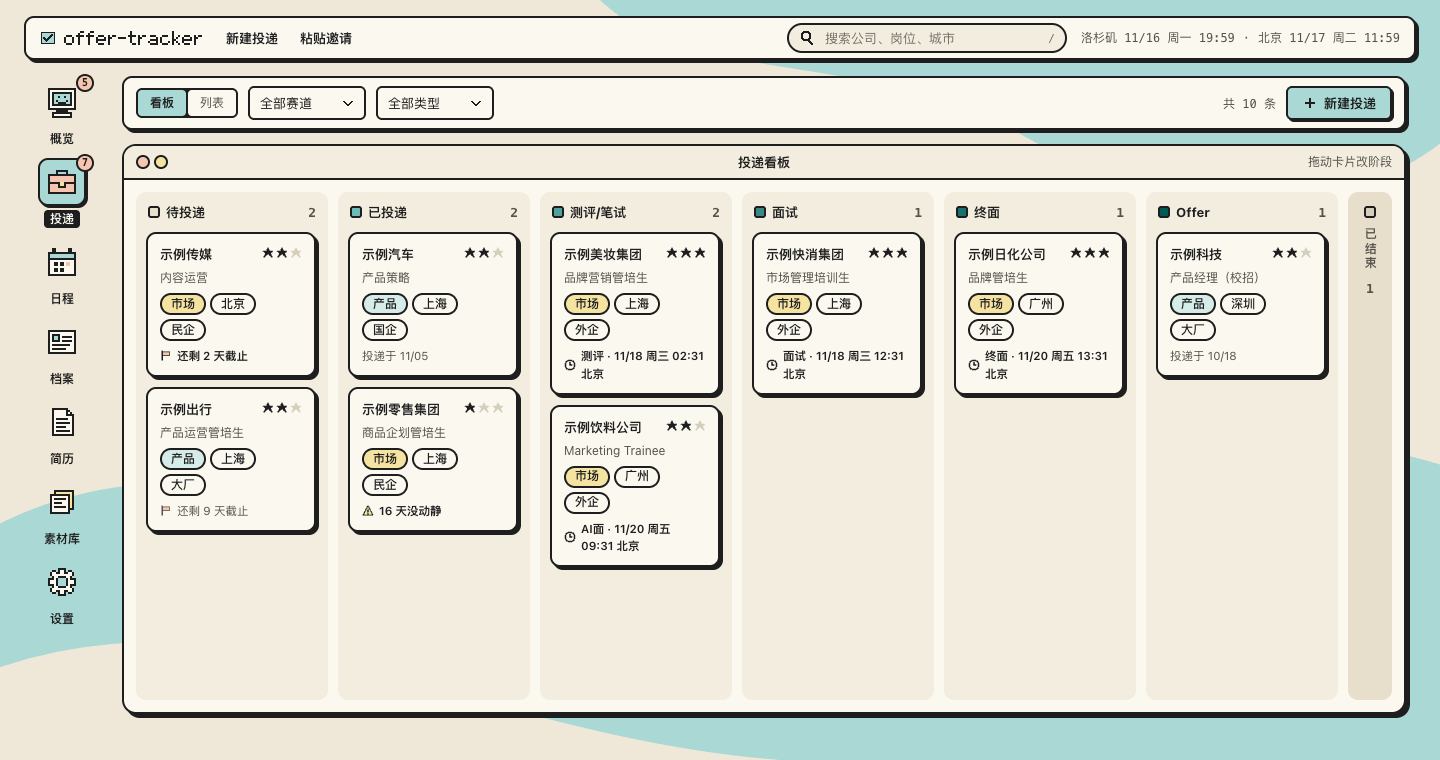
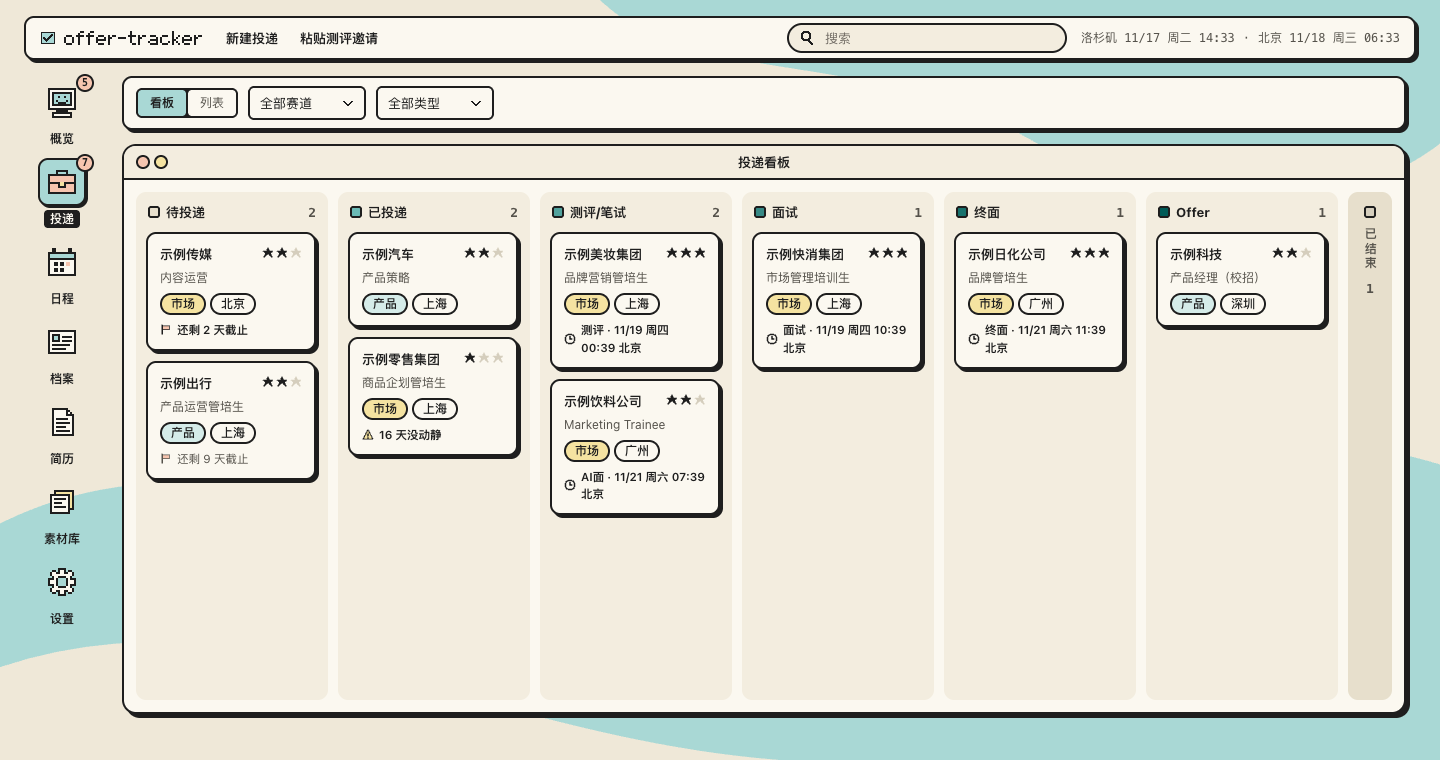
docs: AGENTS.md as the single rule file, UI copy principles, new screenshots
Project rules now live only in AGENTS.md (CLAUDE.md imports it). The UI
section adds two rules: avoid unnecessary secondary labels and let the
layout do the explaining; a first-time visitor must be able to tell where
to click next and what happens. Screenshots regenerated from demo data.

diff --git a/AGENTS.md b/AGENTS.md
@@ -1,0 +1,104 @@
+# 秋招 Tracker（给编码助手）
+
+本地秋招投递管理工具：Node 零依赖服务 + 原生 JS 网页。设计见 `docs/superpowers/specs/2026-09-20-job-tracker-design.md`，字段定义以 spec §3 为准。
+
+## 运行与测试
+
+- 服务：`http://127.0.0.1:7317`（双击 `启动Tracker.command` 或 `npm start`）；`curl -s 127.0.0.1:7317/api/ping` 判断是否在运行
+- **改了 `server/` 或 `shared/` 的代码必须重启服务**（`./停止Tracker.command && ./启动Tracker.command`），否则跑的还是旧代码：接口 404、ICS 少闹钟这类「明明改了却没生效」都是这个原因。网页和插件的代码不用重启，刷新页面即可
+- 测试：`npm test`
+
+## 数据（`data/`，含个人信息，已被 git 忽略）
+
+| 文件 | 内容 |
+|---|---|
+| `profile.json` | 个人档案；中英字段是 `{ "zh", "en" }` |
+| `applications.json` | 投递数组（含 events 日程、timeline 时间线） |
+| `answers.json` | 素材库 |
+| `resumes.json` + `resumes/` | 简历版本和原件 |
+| `settings.json` | 设置，缺省值见 `shared/constants.js` 的 `DEFAULT_SETTINGS` |
+| `jd/<appId>.md` | JD 快照 |
+| `backups/` | 自动备份 |
+| `ai/<appId>.json` | AI 诊断、面试题和对话的缓存 |
+
+## 修改数据
+
+**服务在运行时一律走 API**（会自动写时间线、补投递日期、做校验、做备份）：
+
+```bash
+API=http://127.0.0.1:7317/api
+# 新建投递
+curl -s -X POST $API/applications -H 'Content-Type: application/json' \
+  -d '{"company":"示例公司","position":"Marketing MT","track":"市场","companyType":"外企","stage":"applied"}'
+# 改阶段 / 状态
+curl -s -X PATCH $API/applications/<id> -H 'Content-Type: application/json' -d '{"stage":"interview"}'
+# 保存 JD 快照
+curl -s -X PUT $API/applications/<id>/jd -H 'Content-Type: application/json' -d '{"text":"..."}'
+```
+
+加日程：先 `GET $API/applications/<id>`，在 `events` 里追加一项后整体 `PATCH {"events":[...]}`。日程格式：
+
+```json
+{ "id": "evt_xxxxxxxxxx", "type": "面试", "title": "二面", "at": "2026-09-25T14:00:00+08:00",
+  "tz": "Asia/Shanghai", "durationMin": 60, "location": "", "done": false, "review": null }
+```
+
+测评 / 笔试 / AI 面这类「在某个时间之前自己找时间做完」的，再加三个字段（见 `shared/invite.js` 和 M3 设计文档）：
+
+```json
+{ "mode": "deadline", "windowStart": "<收到邀请的时刻 UTC ISO>", "basis": "请在收到本邮件后的5天内完成面试" }
+```
+
+`mode` 缺省按类型推断（`测评`/`笔试`/`AI面` 是 `deadline`，其余是 `meeting`）。截止型事件在概览里一直显示倒计时直到 `done`，日历会响两次闹钟。用户发来测评邀请邮件时，用 `parseInvite()` 算截止时间，别自己心算。
+
+**服务没运行时**可以直接改 JSON，但必须自己做到服务会做的事：
+
+- 新 id：`<前缀>_<10 位 [0-9a-z]>`，前缀 `app` / `evt` / `tl` / `ans` / `res` / `edu` / `work` …（`shared/domain.js` 的 `newId`）
+- 改 `stage` 或 `status` 时，在 `timeline` 追加 `{ "id", "at": <UTC ISO>, "type": "stage" | "status", "from", "to", "text": "" }`
+- 从 `wishlist` 进入之后的阶段、且 `appliedAt` 为空时，填当天日期（按 `settings.homeTz`）
+- 更新 `updatedAt`；保持文件是合法 JSON（写坏了服务会拒绝写入，可从 `backups/` 恢复）
+
+取值：`stage` ∈ wishlist / applied / assessment / interview / final / offer；`status` ∈ active / rejected / withdrawn / accepted / declined；`priority` ∈ 1 / 2 / 3；日程类型见 `EVENT_TYPES`。
+
+## 规则
+
+- 时间：用户说的面试时间没带时区时，按 `settings.eventInputTz` 理解，并在回复里把两个时区都说出来
+- 绝不存身份证号、护照号、密码；`account` 只放注册用的邮箱或手机号
+- 代码、提交信息、`docs/` 里不写任何个人信息（以后可能公开部署）
+- 项目规则只写在 `AGENTS.md` 这一份；`CLAUDE.md` 只是用 `@AGENTS.md` 引用它，别在那里另写规则
+- README 有中英两份：`README.md`（中文，GitHub 默认显示）和 `README.en.md`（英文），顶部互相链接；改一份要同步改另一份
+- 保持零依赖、无构建；数据读写只放在 `server/store.js`；业务规则放 `shared/`，网页和服务端共用
+
+## 界面风格（web/ 和插件侧边栏）
+
+- **少写字，让布局来解释**（Avoid unnecessary secondary labels and descriptions. Let the layout do the explaining.）
+  - 不加副标题、说明段落、标题栏里的提示小字、数字下面的注释行；位置、分组、标题栏、图标、色块、留白能说明的，就不再用文字说一遍
+  - 计数写进窗口标题（「需要处理 · 5」），不另起一行「共 N 条」；同一个操作只出现一次（菜单栏已有「新建投递」「粘贴测评邀请」，页面里不再放）——空状态例外，见下一条
+  - 空状态放下一步的按钮（空看板里的「记第一条投递」、空日程里的「粘贴测评邀请」），不写引导段落；没有数据的卡片直接不显示
+  - 自动识别 / 自动填好的结果用底色表示，不写「识别到了：…」；颜色图例用色块，不写「绿框是…」
+  - 生成时间、文件大小这类次要信息放进悬停提示（`title`），不常驻在页面上
+  - 只留：字段名、按钮、窗口标题、数据本身、出错信息，以及页面上看不出来、做错了就会出问题的提示（比如订阅日历时要取消勾选「移除：提醒」）
+- **第一次进来的人要答得出「下一步点哪里，点了会发生什么」**：每个页面（尤其是还没有数据时）只靠布局和按钮回答这两个问题。答不出来就先改布局和按钮文案，不加说明文字补救
+  - 布局：下一步放在视线落点（空状态里的唯一按钮、编号排出先后、下一步用主按钮高亮、做完的打勾）；能点开的行在行尾放 ›，能拖的卡片用抓手光标
+  - 按钮文案：动词 + 对象，读出来就是点了以后的结果，比如「记第一条投递」「按 JD 生成改写建议」「订阅到日历」「记一次跟进」；不用「我跟进了」这类陈述句，也不用「开始诊断」「识别」这类说不清结果的词
+  - 能省掉的步骤就省掉：粘进邮件就自动识别，不另放「识别」按钮；新建之后马上出现，光标直接停在要填的地方
+- 复古桌面风：奶油色纸面、2px 黑描边、不带模糊的硬阴影、像素图标。颜色和尺寸只在 `web/css/base.css` 的 `:root` 里定义，别处一律用变量；只有浅色一套，没有深色模式
+- 每块内容是一个「窗口」：`.card` > `.card-head`（标题栏：左边两个圆点，标题居中，右侧可放一个小按钮或链接）+ `.card-body`；JS 里可用 `ui.js` 的 `windowCard()`。投递详情是浮在右侧的窗口（`openDrawer`），弹窗是激活状态的窗口（青色标题栏）
+- 阶段色 `--st-*` 是同一个青绿由浅到深（阶段有先后），文字始终是黑的，色块旁边一定有文字；提醒 / 警告 / 出错用底色 + 图标 + 文字（`.flag`、`.toast.error`），不能只靠颜色
+- 图标是 `web/js/pixel.js` 里 16×16 的位图，用 `icon('名字')` 取；加图标就在 `ICONS` 里加一份位图，`tests/pixel.test.js` 会检查格式，也会检查网页里用到的图标都画了。大数字用 `pixelText()` 画成像素字
+- 插件侧边栏在 shadow root 里，样式是 `extension/content/panel.js` 里的 `STYLE`，颜色和网页保持一致
+
+## AI（settings.ai + server/ai.js）
+
+- 模型服务由用户自己配：`settings.ai = {format: 'openai'|'anthropic', baseUrl, model, apiKey, forbidden[], enabled}`
+- **apiKey 只在服务端读**。`/api/settings`、`/api/state` 一律经 `publicSettings()` 抹掉，只返回 `hasKey`；PATCH 时空串表示不改、`null` 表示清空。改这块务必保留 `tests/server.test.js` 里那条「绝不出服务端」的测试
+- 发给模型的内容走 `shared/aiprompt.js` 的 `resumeForAI()` 白名单：联系方式、证件、生日一律不发
+- 接口：`POST /api/ai/{test,diagnose,interview,chat}`，`GET /api/ai/<appId>` 只读缓存不花钱
+- 防编造：系统提示 + 用户的 `forbidden` 清单 + `rewriteWarnings()` 的机器检查 + 丢弃对不上档案 id 的建议
+
+## Chrome 插件（extension/）
+
+- 结构：`content/lib/`（fields 字段字典、match 标签匹配、fill 写值、clip 收藏识别）→ `content/agent.js`（每个 frame 的执行者）→ `content/panel.js`（侧边栏）；`bg/handlers.js` 处理消息，`bg/logic.js` 是纯函数
+- 加字段或同义词：改 `content/lib/fields.js`，在 `extension/test/match.test.js` 加用例
+- 测试：`npm test` 包含插件单测；页面行为用 `node extension/test/serve.mjs` 打开 http://127.0.0.1:7320/ 的测试页，在浏览器里执行 `await jtTest.fill()`
+- 用户是「加载已解压的扩展程序」装的：改完插件代码要提醒用户去 chrome://extensions 点重新加载

diff --git a/CLAUDE.md b/CLAUDE.md
@@ -1,92 +1,5 @@
 # 秋招 Tracker（给 Claude）
 
-本地秋招投递管理工具：Node 零依赖服务 + 原生 JS 网页。设计见 `docs/superpowers/specs/2026-09-20-job-tracker-design.md`，字段定义以 spec §3 为准。
+项目规则只维护一份，写在 AGENTS.md（Claude 和其他编码助手共用）：
 
-## 运行与测试
-
-- 服务：`http://127.0.0.1:7317`（双击 `启动Tracker.command` 或 `npm start`）；`curl -s 127.0.0.1:7317/api/ping` 判断是否在运行
-- **改了 `server/` 或 `shared/` 的代码必须重启服务**（`./停止Tracker.command && ./启动Tracker.command`），否则跑的还是旧代码：接口 404、ICS 少闹钟这类「明明改了却没生效」都是这个原因。网页和插件的代码不用重启，刷新页面即可
-- 测试：`npm test`
-
-## 数据（`data/`，含个人信息，已被 git 忽略）
-
-| 文件 | 内容 |
-|---|---|
-| `profile.json` | 个人档案；中英字段是 `{ "zh", "en" }` |
-| `applications.json` | 投递数组（含 events 日程、timeline 时间线） |
-| `answers.json` | 素材库 |
-| `resumes.json` + `resumes/` | 简历版本和原件 |
-| `settings.json` | 设置，缺省值见 `shared/constants.js` 的 `DEFAULT_SETTINGS` |
-| `jd/<appId>.md` | JD 快照 |
-| `backups/` | 自动备份 |
-| `ai/<appId>.json` | AI 诊断、面试题和对话的缓存 |
-
-## 修改数据
-
-**服务在运行时一律走 API**（会自动写时间线、补投递日期、做校验、做备份）：
-
-```bash
-API=http://127.0.0.1:7317/api
-# 新建投递
-curl -s -X POST $API/applications -H 'Content-Type: application/json' \
-  -d '{"company":"示例公司","position":"Marketing MT","track":"市场","companyType":"外企","stage":"applied"}'
-# 改阶段 / 状态
-curl -s -X PATCH $API/applications/<id> -H 'Content-Type: application/json' -d '{"stage":"interview"}'
-# 保存 JD 快照
-curl -s -X PUT $API/applications/<id>/jd -H 'Content-Type: application/json' -d '{"text":"..."}'
-```
-
-加日程：先 `GET $API/applications/<id>`，在 `events` 里追加一项后整体 `PATCH {"events":[...]}`。日程格式：
-
-```json
-{ "id": "evt_xxxxxxxxxx", "type": "面试", "title": "二面", "at": "2026-09-25T14:00:00+08:00",
-  "tz": "Asia/Shanghai", "durationMin": 60, "location": "", "done": false, "review": null }
-```
-
-测评 / 笔试 / AI 面这类「在某个时间之前自己找时间做完」的，再加三个字段（见 `shared/invite.js` 和 M3 设计文档）：
-
-```json
-{ "mode": "deadline", "windowStart": "<收到邀请的时刻 UTC ISO>", "basis": "请在收到本邮件后的5天内完成面试" }
-```
-
-`mode` 缺省按类型推断（`测评`/`笔试`/`AI面` 是 `deadline`，其余是 `meeting`）。截止型事件在概览里一直显示倒计时直到 `done`，日历会响两次闹钟。用户发来测评邀请邮件时，用 `parseInvite()` 算截止时间，别自己心算。
-
-**服务没运行时**可以直接改 JSON，但必须自己做到服务会做的事：
-
-- 新 id：`<前缀>_<10 位 [0-9a-z]>`，前缀 `app` / `evt` / `tl` / `ans` / `res` / `edu` / `work` …（`shared/domain.js` 的 `newId`）
-- 改 `stage` 或 `status` 时，在 `timeline` 追加 `{ "id", "at": <UTC ISO>, "type": "stage" | "status", "from", "to", "text": "" }`
-- 从 `wishlist` 进入之后的阶段、且 `appliedAt` 为空时，填当天日期（按 `settings.homeTz`）
-- 更新 `updatedAt`；保持文件是合法 JSON（写坏了服务会拒绝写入，可从 `backups/` 恢复）
-
-取值：`stage` ∈ wishlist / applied / assessment / interview / final / offer；`status` ∈ active / rejected / withdrawn / accepted / declined；`priority` ∈ 1 / 2 / 3；日程类型见 `EVENT_TYPES`。
-
-## 规则
-
-- 时间：用户说的面试时间没带时区时，按 `settings.eventInputTz` 理解，并在回复里把两个时区都说出来
-- 绝不存身份证号、护照号、密码；`account` 只放注册用的邮箱或手机号
-- 代码、提交信息、`docs/` 里不写任何个人信息（以后可能公开部署）
-- README 有中英两份：`README.md`（中文，GitHub 默认显示）和 `README.en.md`（英文），顶部互相链接；改一份要同步改另一份
-- 保持零依赖、无构建；数据读写只放在 `server/store.js`；业务规则放 `shared/`，网页和服务端共用
-
-## 界面风格（web/ 和插件侧边栏）
-
-- 复古桌面风：奶油色纸面、2px 黑描边、不带模糊的硬阴影、像素图标。颜色和尺寸只在 `web/css/base.css` 的 `:root` 里定义，别处一律用变量；只有浅色一套，没有深色模式
-- 每块内容是一个「窗口」：`.card` > `.card-head`（标题栏：左边两个圆点，标题居中，右侧可放一个小按钮或链接）+ `.card-body`；JS 里可用 `ui.js` 的 `windowCard()`。投递详情是浮在右侧的窗口（`openDrawer`），弹窗是激活状态的窗口（青色标题栏）
-- 阶段色 `--st-*` 是同一个青绿由浅到深（阶段有先后），文字始终是黑的，色块旁边一定有文字；提醒 / 警告 / 出错用底色 + 图标 + 文字（`.flag`、`.toast.error`），不能只靠颜色
-- 图标是 `web/js/pixel.js` 里 16×16 的位图，用 `icon('名字')` 取；加图标就在 `ICONS` 里加一份位图，`tests/pixel.test.js` 会检查格式，也会检查网页里用到的图标都画了。大数字用 `pixelText()` 画成像素字
-- 插件侧边栏在 shadow root 里，样式是 `extension/content/panel.js` 里的 `STYLE`，颜色和网页保持一致
-
-## AI（settings.ai + server/ai.js）
-
-- 模型服务由用户自己配：`settings.ai = {format: 'openai'|'anthropic', baseUrl, model, apiKey, forbidden[], enabled}`
-- **apiKey 只在服务端读**。`/api/settings`、`/api/state` 一律经 `publicSettings()` 抹掉，只返回 `hasKey`；PATCH 时空串表示不改、`null` 表示清空。改这块务必保留 `tests/server.test.js` 里那条「绝不出服务端」的测试
-- 发给模型的内容走 `shared/aiprompt.js` 的 `resumeForAI()` 白名单：联系方式、证件、生日一律不发
-- 接口：`POST /api/ai/{test,diagnose,interview,chat}`，`GET /api/ai/<appId>` 只读缓存不花钱
-- 防编造：系统提示 + 用户的 `forbidden` 清单 + `rewriteWarnings()` 的机器检查 + 丢弃对不上档案 id 的建议
-
-## Chrome 插件（extension/）
-
-- 结构：`content/lib/`（fields 字段字典、match 标签匹配、fill 写值、clip 收藏识别）→ `content/agent.js`（每个 frame 的执行者）→ `content/panel.js`（侧边栏）；`bg/handlers.js` 处理消息，`bg/logic.js` 是纯函数
-- 加字段或同义词：改 `content/lib/fields.js`，在 `extension/test/match.test.js` 加用例
-- 测试：`npm test` 包含插件单测；页面行为用 `node extension/test/serve.mjs` 打开 http://127.0.0.1:7320/ 的测试页，在浏览器里执行 `await jtTest.fill()`
-- 用户是「加载已解压的扩展程序」装的：改完插件代码要提醒用户去 chrome://extensions 点重新加载
+@AGENTS.md

diff --git a/README.en.md b/README.en.md
@@ -22,7 +22,7 @@ The look is a retro desktop: cream paper, black outlines, hard shadows and pixel
 
 ![Application board](docs/screenshots/board.png)
 
-**日程 Schedule**: assessments, interviews and application deadlines by day, with both time zones side by side. Subscribe in Apple Calendar from the panel on the right; deadline-type events ring twice. 「粘贴邀请」 (Paste invite) turns "within 5 days of receiving this email" in an assessment email into an actual date and time.
+**日程 Schedule**: assessments, interviews and application deadlines by day, with both time zones side by side. Subscribe in Apple Calendar from the panel on the right; deadline-type events ring twice. 「粘贴测评邀请」 (Paste assessment invite) turns "within 5 days of receiving this email" in an assessment email into an actual date and time.
 
 ![Schedule](docs/screenshots/calendar.png)
 
@@ -96,7 +96,7 @@ Set up the shortcut (once):
 
 Double-clicking `导入邮件.command` (Import email) does the same thing.
 
-**By hand**: no need to work out "within 5 days of receiving this email" or "within 3 working days" yourself. On the Schedule page (or the strip at the top of the Overview), click 「粘贴邀请」 (Paste invite) and paste the whole email body. It recognises the company, assessment type, duration and link, turns the time limit into an actual date and time, and saves it as an event once you confirm. If it can't find the time limit, it leaves the field empty for you rather than guessing. Only the parsed result is kept, not the email itself.
+**By hand**: no need to work out "within 5 days of receiving this email" or "within 3 working days" yourself. Click 「粘贴测评邀请」 (Paste assessment invite) in the top menu bar and paste the whole email body. It recognises the company, assessment type, duration and link, turns the time limit into an actual date and time, and saves it as an event once you confirm. If it can't find the time limit, it leaves the field empty for you rather than guessing. Only the parsed result is kept, not the email itself.
 
 Once saved, the Today & tomorrow strip on the Overview keeps counting down until you tick the event off on the Schedule page.
 
@@ -116,7 +116,7 @@ Open Claude Code in this folder and just say things like:
 - "Here is the JD for XX — create an application and check how well my résumé matches"
 - "What deadlines and interviews do I have this week?" / "Which applications have gone quiet?"
 
-Claude edits the data following the rules in `CLAUDE.md`; if the web page is open, it refreshes within a few seconds.
+Claude edits the data following the rules in `AGENTS.md`; if the web page is open, it refreshes within a few seconds.
 
 ## Chrome extension (秋招助手)
 

diff --git a/README.md b/README.md
@@ -20,7 +20,7 @@
 
 ![投递看板](docs/screenshots/board.png)
 
-**日程**：测评、面试、网申截止按天排列，两个时区并排显示；右侧可以订阅到苹果日历，截止型日程会响两次闹钟。「粘贴邀请」能把测评邮件里的「收到后 5 天内」自动换算成具体时间。
+**日程**：测评、面试、网申截止按天排列，两个时区并排显示；右侧可以订阅到苹果日历，截止型日程会响两次闹钟。「粘贴测评邀请」能把测评邮件里的「收到后 5 天内」自动换算成具体时间。
 
 ![日程](docs/screenshots/calendar.png)
 
@@ -94,7 +94,7 @@
 
 也可以直接双击 `导入邮件.command`，效果一样。
 
-**手动录入**：邀请邮件里的「收到后 5 天内」「3 个工作日内」不用自己算。在「日程」页（或概览顶部那条）点「粘贴邀请」，把邮件正文整段粘进去，会自动认出公司、测评类型、时长、链接，并把期限换算成具体时间，确认后存成日程。认不出期限时会留空让你手填，不会瞎猜。只存解析结果，不保存邮件原文。
+**手动录入**：邀请邮件里的「收到后 5 天内」「3 个工作日内」不用自己算。点顶部菜单栏的「粘贴测评邀请」，把邮件正文整段粘进去，会自动认出公司、测评类型、时长、链接，并把期限换算成具体时间，确认后存成日程。认不出期限时会留空让你手填，不会瞎猜。只存解析结果，不保存邮件原文。
 
 存进去之后：概览顶部的「今明两天」会一直显示倒计时，直到你在「日程」页把它勾成已完成。
 
@@ -114,7 +114,7 @@
 - 「这是 XX 的 JD，帮我建一条记录，再对照简历看看匹配度」
 - 「这周有哪些截止和面试？」「哪些投递很久没动静了？」
 
-Claude 会按 `CLAUDE.md` 里的规则直接修改数据，网页开着的话几秒内会自动刷新。
+Claude 会按 `AGENTS.md` 里的规则直接修改数据，网页开着的话几秒内会自动刷新。
 
 ## Chrome 插件（秋招助手）
 
